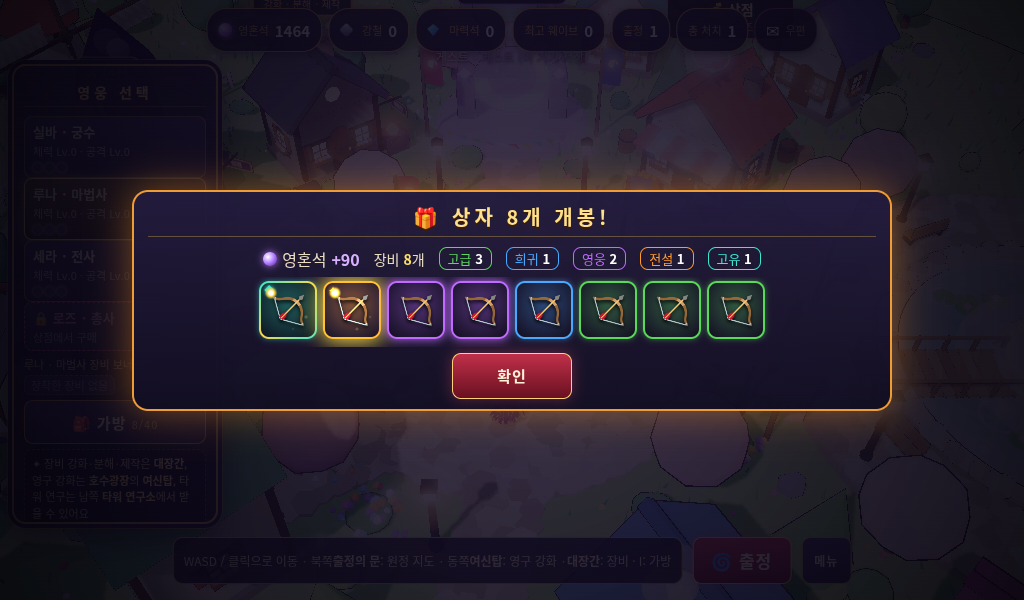
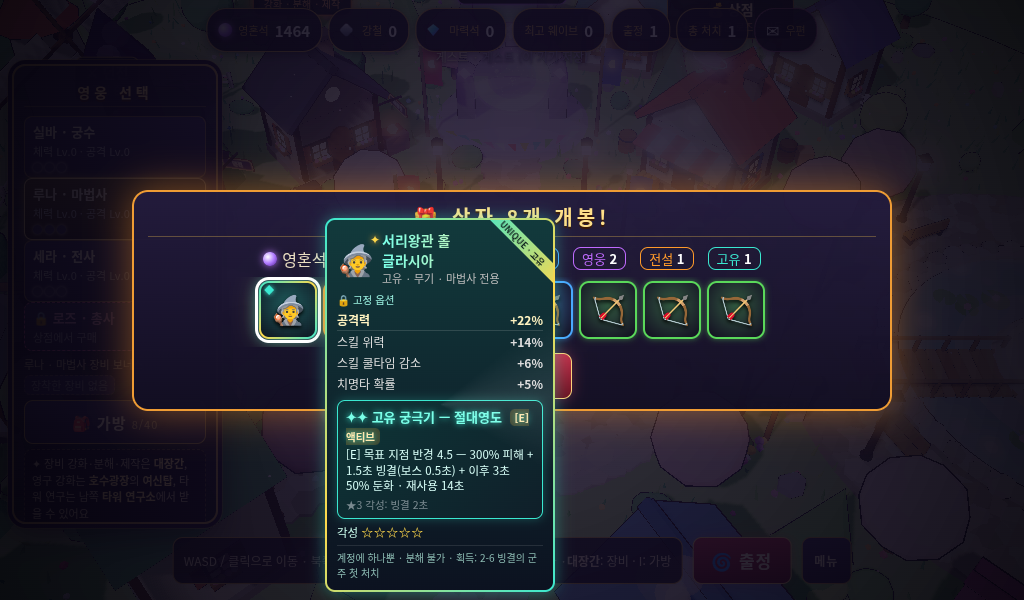
chestall: 고유 상세 카드 스크린샷 전 마우스 툴팁 숨김, #cbSum 대기 5s→20s (느린 박스 타이밍)

Changed region(s): [[0.2188, 0.33, 0.5625, 1.0]]

diff --git a/tests/chestall.py b/tests/chestall.py
@@ -48,7 +48,7 @@ with sync_playwright() as pw:
             except Exception: pass
         else: pg.dblclick('#cbAll')
         J(pg, "()=>{ const b=document.getElementById('cbAll'); if (b) { b.disabled=false; b.click(); b.click(); } }")  # 비활성화를 우회한 연타도 무시돼야 함
-        pg.wait_for_selector('#cbSum', timeout=5000); pg.wait_for_timeout(2600)
+        pg.wait_for_selector('#cbSum', timeout=20000); pg.wait_for_timeout(2600)
         s1 = J(pg, "()=>G.gear.Acc.load()"); ids = [x['id'] for x in s1['inv']]
         ok(f'{tag}_capacity_respected', len(s1['inv']) == 40 and len(s1['chests']) == 4, (len(s1['inv']), len(s1['chests'])))
         ok(f'{tag}_no_duplicates', len(set(ids)) == len(ids) and not set(ids) & {c['it']['id'] for c in s1['chests']})
@@ -80,18 +80,18 @@ with sync_playwright() as pw:
         try: pg.wait_for_function("()=>document.querySelector('.cvStage.open') && G.gear.Acc.load().chests.length===3", timeout=10000)
         except Exception: pass
         s2 = J(pg, "()=>G.gear.Acc.load()"); ok(f'{tag}_single_open', len(s2['chests']) == 3 and len(s2['inv']) == 21 and 'undefined' not in pg.inner_text('#chestOv'), (len(s2['chests']), len(s2['inv']), pg.inner_text('#chestOv')[:80]))
-        (pg.tap if touch else pg.click)('#cbAll'); pg.wait_for_selector('#cbSum', timeout=5000); pg.wait_for_timeout(600)
+        (pg.tap if touch else pg.click)('#cbAll'); pg.wait_for_selector('#cbSum', timeout=20000); pg.wait_for_timeout(600)
         ok(f'{tag}_open_rest', pg.locator('#cbGrid .sumT').count() == 3 and J(pg, "()=>G.gear.Acc.load().chests.length") == 0 and '가득' not in pg.inner_text('#cbSum'))
         pg.click('#cbOk'); pg.wait_for_timeout(300); ok(f'{tag}_btn_hidden_after', hidden(pg, 'chestOv') and hidden(pg, 'twChest'))
         # 4) 10개 열기
-        pg.evaluate(SEED, [23, 0]); pg.click('#twChest'); pg.wait_for_timeout(600); (pg.tap if touch else pg.click)('#cbTen'); pg.wait_for_selector('#cbSum', timeout=5000); pg.wait_for_timeout(400)
+        pg.evaluate(SEED, [23, 0]); pg.click('#twChest'); pg.wait_for_timeout(600); (pg.tap if touch else pg.click)('#cbTen'); pg.wait_for_selector('#cbSum', timeout=20000); pg.wait_for_timeout(400)
         ok(f'{tag}_open_ten', pg.locator('#cbGrid .sumT').count() == 10 and J(pg, "()=>G.gear.Acc.load().chests.length") == 13 and pg.locator('#cbMore').count() == 1)
         pg.click('#cbMore'); pg.wait_for_timeout(400); ok(f'{tag}_more_back_to_chests', pg.locator('#cbAll').count() == 1 and '13' in pg.inner_text('#cbBar'))
-        pg.click('#cbAll'); pg.wait_for_selector('#cbSum', timeout=5000); pg.wait_for_timeout(300); ok(f'{tag}_open_all_13', pg.locator('#cbGrid .sumT').count() == 13); pg.click('#cbOk')
+        pg.click('#cbAll'); pg.wait_for_selector('#cbSum', timeout=20000); pg.wait_for_timeout(300); ok(f'{tag}_open_all_13', pg.locator('#cbGrid .sumT').count() == 13); pg.click('#cbOk')
         # 6) 고유 아이템이 섞인 모두 열기: 고유 타일이 보이고(opacity 1·청록 테두리·아이콘) '고유 N' 칩이 따로 나와야 함 (.itile.uq 의 animation 이 tileIn 을 덮어써 투명하던 회귀)
         J(pg, """()=>{ const {Acc,E}=G.gear; let q=7; const r=()=>{ q=(q*16807)%2147483647; return q/2147483647; };
           Acc.update(d=>{ d.inv=[]; d.chests=[]; d.eq={}; if (d.uqLog) delete d.uqLog.s_staff; E.addChests(d, [1,1,1,2,3,3,4].map(g=>({ it:E.makeItem('weapon','archer',g,r), src:'chest' }))); E.grantUnique(d, 's_staff'); return d; }); }""")
-        pg.click('#twChest'); pg.wait_for_timeout(600); (pg.tap if touch else pg.click)('#cbAll'); pg.wait_for_selector('#cbSum', timeout=5000)
+        pg.click('#twChest'); pg.wait_for_timeout(600); (pg.tap if touch else pg.click)('#cbAll'); pg.wait_for_selector('#cbSum', timeout=20000)
         pg.wait_for_function("()=>{ const g=document.getElementById('cbGrid'); return g && g.querySelector('.sumT') && !g.getAnimations({subtree:true}).some(a=>a.animationName==='tileIn' && a.playState!=='finished'); }", timeout=20000); pg.wait_for_timeout(200)  # 등장(tileIn) 끝까지
         uq = J(pg, """()=>{ const e=document.querySelector('#cbGrid .sumT.uq'); if (!e) return null; const cs=getComputedStyle(e), ic=e.querySelector('.ic'), r=e.getBoundingClientRect();
           return { op:+cs.opacity, anim:cs.animationName, ic:(ic&&ic.textContent||'').trim(), icOp:ic?+getComputedStyle(ic).opacity:0, w:r.width, h:r.height, bg:cs.backgroundImage.includes('linear-gradient'), n:document.querySelectorAll('#cbGrid .sumT').length,
@@ -101,6 +101,7 @@ with sync_playwright() as pw:
         ok(f'{tag}_unique_chip', uq and '고유 1' in uq['chips'] and '전설 1' in uq['chips'] and sum(int(c.split()[-1]) for c in uq['chips']) == 8, uq and uq['chips'])
         ok(f'{tag}_unique_tile_icon_safe', uq and uq['ic'] == '🧙', uq and uq['ic'])  # 글라시아: 🪄(U+1FA84) 는 Windows 10 에서 두부 → 🧙
         pg.click('#cbGrid .sumT.uq'); pg.wait_for_timeout(250); ok(f'{tag}_unique_detail_card', '글라시아' in pg.inner_text('#cbDetail') and pg.locator('#cbDetail .icard.uq .uqRib').count() == 1, pg.inner_text('#cbDetail')[:60])
+        pg.mouse.move(5, 5); J(pg, "()=>document.getElementById('itemTip').classList.add('hidden')"); pg.wait_for_timeout(150)  # 요약 + 아래 상세 카드가 보이게 (마우스 툴팁 숨김)
         if tag == '1024x600' and (SHOTS or '--uq-shot' in sys.argv):
             d = OUT.parent / 'items'; d.mkdir(parents=True, exist_ok=True); J(pg, "()=>G.pauseRender=true"); pg.wait_for_timeout(300); pg.screenshot(path=str(d / 'chest_unique_fix.png')); J(pg, "()=>G.pauseRender=false")
         pg.click('#cbOk'); pg.wait_for_timeout(300)
